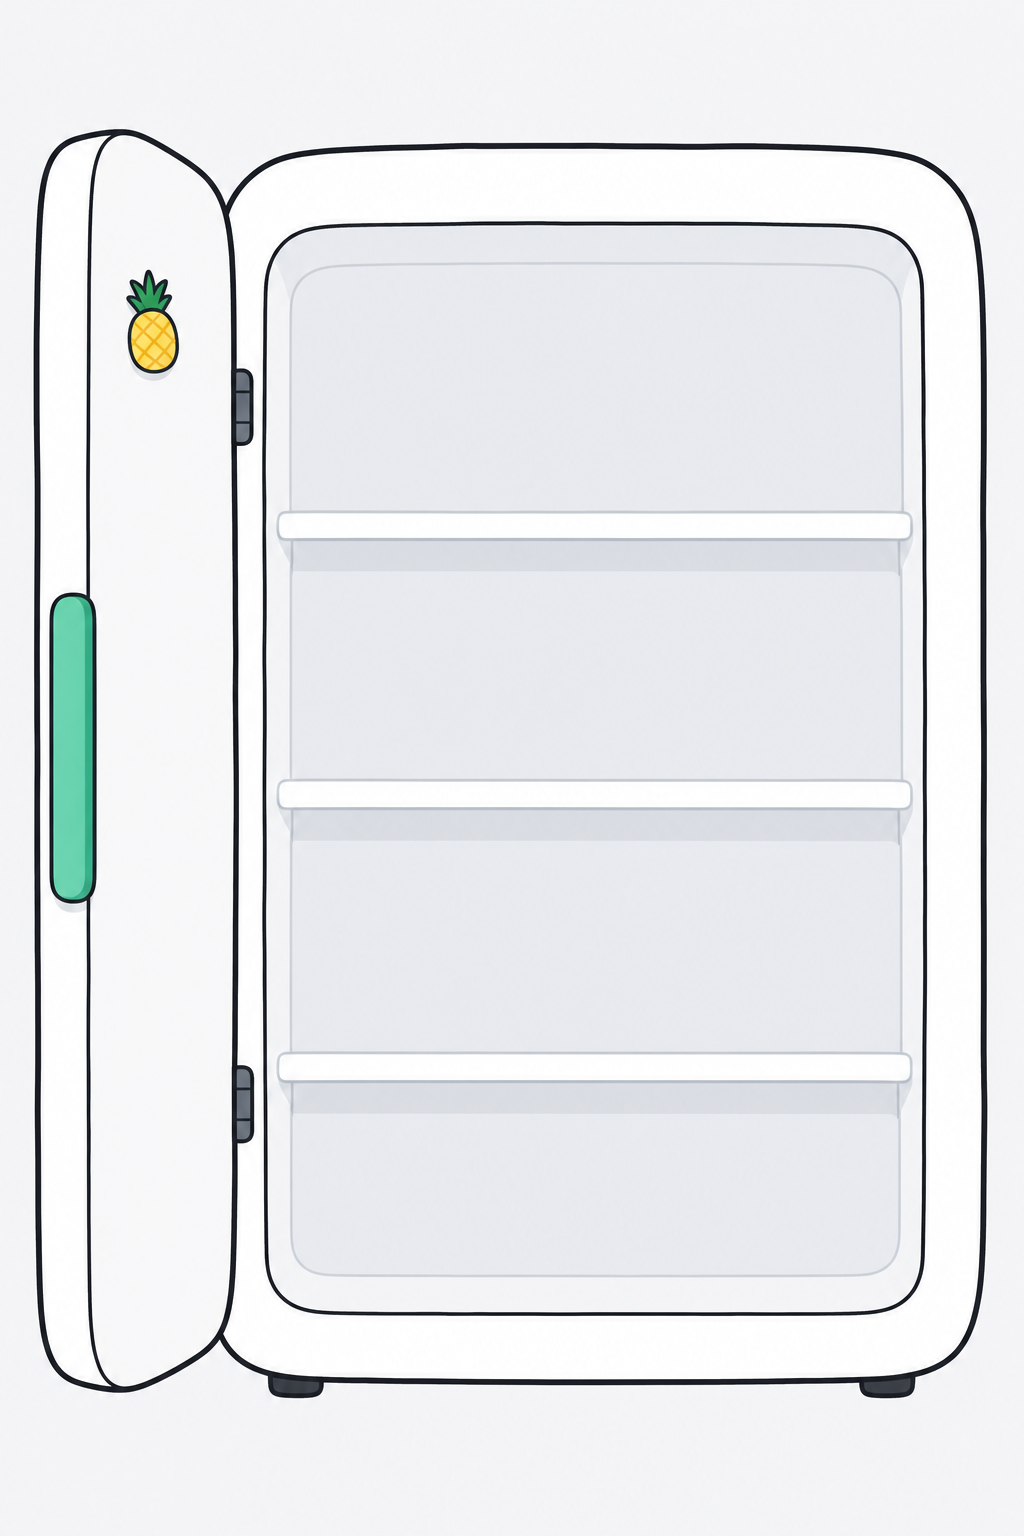
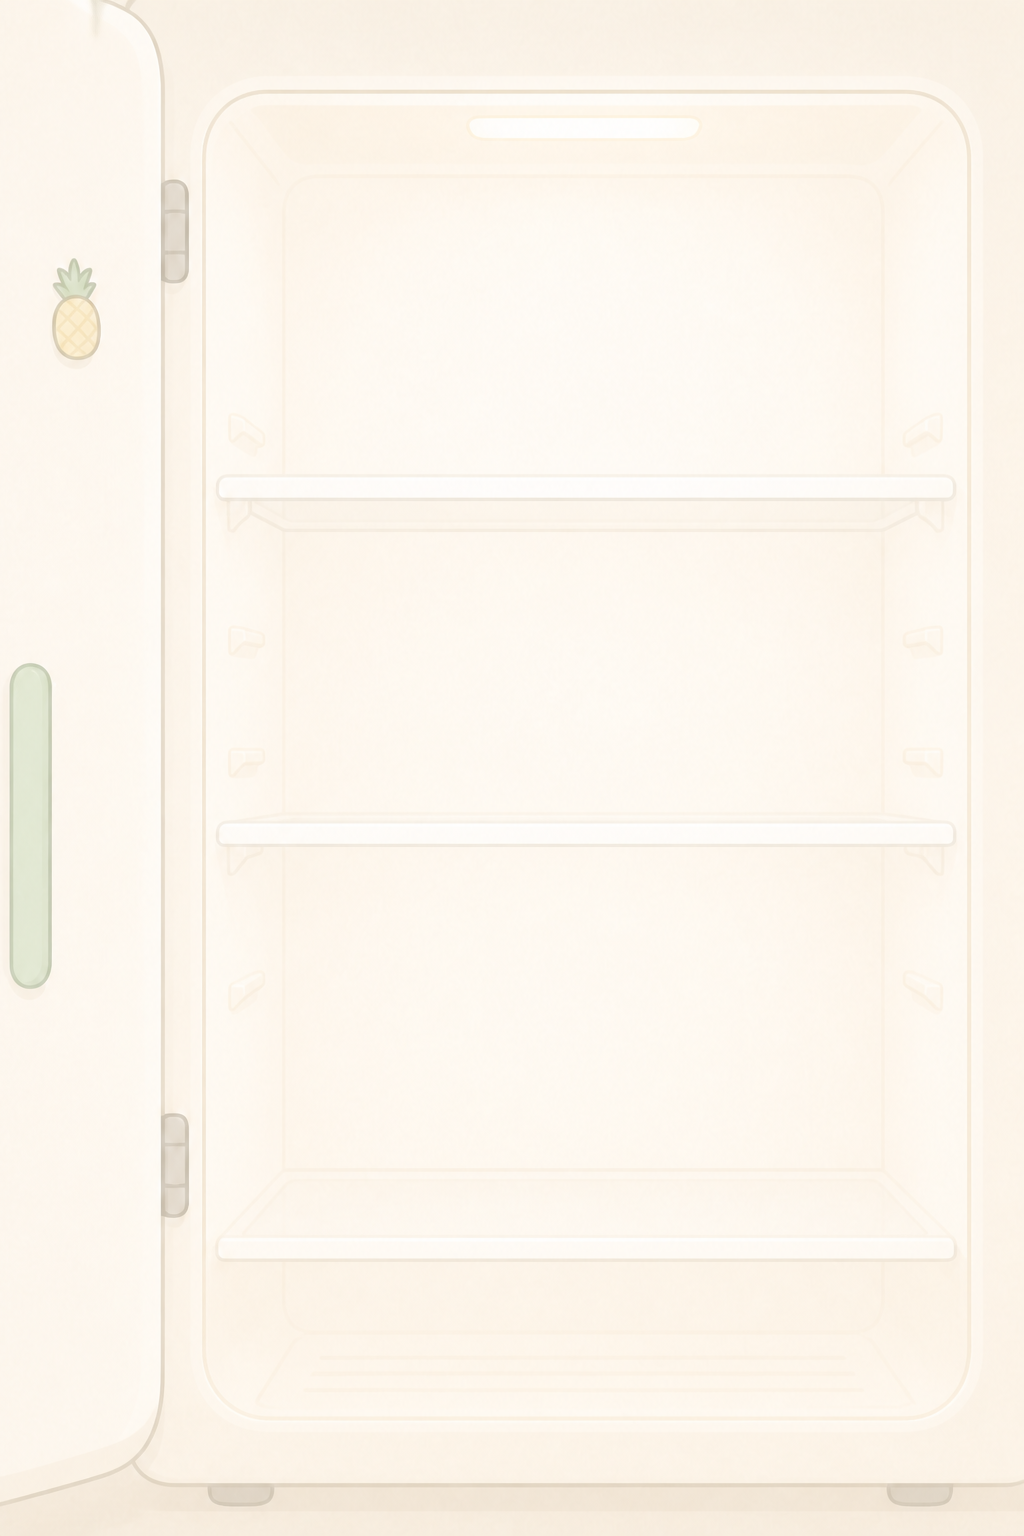
feat(mobile): finalize Jango visual assets

Changed region(s): [[0.0, 0.0625, 1.0, 1.0], [0.0938, 0.0, 0.1562, 0.0312]]

diff --git a/apps/mobile/src/features/inventory/inventory-screen-styles.ts b/apps/mobile/src/features/inventory/inventory-screen-styles.ts
@@ -310,7 +310,7 @@ export const inventoryScreenStyles = StyleSheet.create({
   fridgeSceneVeil: {
     ...StyleSheet.absoluteFillObject,
     backgroundColor: colors.background,
-    opacity: 0.24,
+    opacity: 0.16,
   },
   listFlex: {
     flex: 1,

diff --git a/apps/mobile/app/(tabs)/recommendations.tsx b/apps/mobile/app/(tabs)/recommendations.tsx
@@ -1719,7 +1719,7 @@ const styles = StyleSheet.create({
   kitchenSceneVeil: {
     ...StyleSheet.absoluteFillObject,
     backgroundColor: colors.background,
-    opacity: 0.24,
+    opacity: 0.16,
   },
   scrollFlex: {
     flex: 1,

diff --git a/apps/mobile/scripts/sync-branding-from-jango.py b/apps/mobile/scripts/sync-branding-from-jango.py
@@ -1,5 +1,5 @@
 #!/usr/bin/env python3
-"""Derive branding + native iOS icons from Jango character masters.
+"""Derive branding + native iOS/Android icons from Jango character masters.
 
 Sources:
   - assets/characters/jango-icon-crop.png
@@ -36,6 +36,14 @@ APPICON = (
     / "ios/ExpiryMate/Images.xcassets/AppIcon.appiconset/App-Icon-1024x1024@1x.png"
 )
 SPLASH_DIR = ROOT / "ios/ExpiryMate/Images.xcassets/SplashScreenLogo.imageset"
+ANDROID_RES = ROOT / "android/app/src/main/res"
+ANDROID_MONOCHROME_SIZES = {
+    "mdpi": 108,
+    "hdpi": 162,
+    "xhdpi": 216,
+    "xxhdpi": 324,
+    "xxxhdpi": 432,
+}
 
 BG_RGB = (241, 243, 245)  # semanticColors.background
 
@@ -105,14 +113,26 @@ def to_opaque_rgb(im: Image.Image, bg: tuple[int, int, int] = BG_RGB) -> Image.I
     return base
 
 
+def to_white_alpha_glyph(im: Image.Image) -> Image.Image:
+    """Reuse an approved foreground alpha mask as a pure-white themed glyph."""
+    glyph = Image.new("RGBA", im.size, (255, 255, 255, 255))
+    glyph.putalpha(im.getchannel("A"))
+    return glyph
+
+
 def simplified_silhouette(
-    character: Image.Image, master: int = 192, final: int = 96
+    character: Image.Image,
+    master: int = 192,
+    final: int = 96,
+    upper_crop_ratio: float = 0.70,
 ) -> tuple[Image.Image, Image.Image]:
-    """White silhouette: simplify edges at high res, save 192 master, downscale to 96."""
+    """White notification glyph cropped to Jango's hat and refrigerator head."""
     bbox = character.getbbox()
     if not bbox:
         raise SystemExit("source has no opaque pixels")
-    cropped = character.crop(bbox)
+    content_height = bbox[3] - bbox[1]
+    crop_bottom = bbox[1] + int(content_height * upper_crop_ratio)
+    cropped = character.crop((bbox[0], bbox[1], bbox[2], crop_bottom))
 
     work_size = master * 2
     work = Image.new("RGBA", (work_size, work_size), (0, 0, 0, 0))
@@ -186,6 +206,23 @@ def main() -> None:
     adaptive = fit_on_canvas(crop, 1024, scale=0.72, background=None)
     adaptive = harden_rgba_alpha(adaptive)
     adaptive.save(BRAND / "adaptive-icon.png", optimize=True)
+
+    # Android 13+ themed icon: exact adaptive silhouette, tinted by the OS.
+    monochrome = to_white_alpha_glyph(adaptive)
+    monochrome.save(BRAND / "monochrome-icon.png", optimize=True)
+
+    if ANDROID_RES.exists():
+        for density, dim in ANDROID_MONOCHROME_SIZES.items():
+            destination = (
+                ANDROID_RES / f"mipmap-{density}" / "ic_launcher_monochrome.webp"
+            )
+            destination.parent.mkdir(parents=True, exist_ok=True)
+            monochrome.resize((dim, dim), Image.Resampling.LANCZOS).save(
+                destination,
+                "WEBP",
+                lossless=True,
+                method=6,
+            )
 
     # Splash: full-body idle
     splash = fit_on_canvas(idle, 1024, scale=0.88, background=None)

diff --git a/docs/JANGO_CHARACTER_STYLE_GUIDE.md b/docs/JANGO_CHARACTER_STYLE_GUIDE.md
@@ -197,28 +197,24 @@ UI 리디자인 당시 초안은 [`archive/MOBILE_REDESIGN_PROMPTS.md`](./archiv
 | `jango-speak.png` | 말하기 (안내·말풍선 UI와 함께). **에셋에 말풍선 금지** |
 | `jango-think.png` | 생각·로딩 |
 | `jango-point.png` | 가리키기 (CTA 유도) |
-| `jango.png` | idle과 동일 마스터 카피 |
 | `jango-icon-crop.png` | **아이콘 전용 포즈** (idle 마스터·윙크+양손 엄지척, 투명 PNG). 양손은 같은 크기·높이로 맞추고 얼굴보다 시각적으로 무겁지 않게 유지. `branding:sync`가 `#F1F3F5` 불투명 `icon.png`로 합성 |
-| `mate-fridge-chef.png` | 레거시 호환용 2D 중립 포즈 (앱 mood·신규 제작 기준으로 직접 쓰지 않음) |
 
 경로: `apps/mobile/assets/characters/`
-
-과거 3D 원본은 `apps/mobile/assets/characters/legacy/`에 보존하며 공식 캐릭터 에셋으로 배포하지 않는다.
 
 ### 소형 UI 전용 에셋
 
 `Mascot size="small"`은 해당 mood의 전신 마스터에서 결정적으로 파생한 상반신 에셋을 자동 선택한다. 소형을 독립적으로 생성·재디자인하지 않는다.
 
 - 파생 소스: `assets/characters/jango-{mood}.png` (1024×1024 RGBA 전신 마스터)
-- 파생 결과: `assets/characters/small/jango-{mood}-small.png` (1024×1024 RGBA)
+- 파생 결과: `assets/characters/runtime/small/jango-{mood}{,@2x,@3x}.png` (72/144/216px RGBA)
 - 고정 크롭: 전신 좌표 `(x: 97, y: 0, width: 830, height: 830)`을 1024×1024로 확대한다. mood별 임의 크롭·재구도 금지
 - 디자인: 얼굴·모자·문·손잡이·경첩·자석·의상·장갑·소품을 전신 마스터와 픽셀 수준으로 동일하게 유지한다.
 - 색: Mint·Charcoal·Body White·Soft Shadow를 전신 마스터에서 그대로 샘플링한다. 소형 전용 채도·명도 보정 금지
 - 선: 전신 마스터의 선화를 크롭과 함께 확대할 뿐 별도 외곽선 추가·굵기 보정 금지
 - 표정·제스처: 해당 mood 전신 마스터의 표정과 포즈를 그대로 유지한다. 소형 전용 재해석 금지
 - 사용 범위: 72px 인라인·배너·시트 전용. `medium`과 `large`는 기존 전신 에셋 유지
-- 재생성: `pnpm --filter @expirymate/mobile mascot:small:build`
-- 자동 검수: `pnpm --filter @expirymate/mobile mascot:audit` — 비율과 함께 outline·mint·alpha·전체 픽셀 불일치가 모두 `0`이어야 한다.
+- 재생성: `pnpm --filter @expirymate/mobile mascot:build` (`mascot:small:build`는 호환 명령)
+- 자동 검수: `pnpm --filter @expirymate/mobile mascot:audit` — 풀바디에서 메모리상으로 직접 파생한 기준과 비교해 outline·mint·alpha·전체 픽셀 불일치가 모두 `0`이어야 한다. 1024px 소형 중간 파일은 저장하지 않는다.
 
 ### 브랜딩 / 스토어 / 알림
 
@@ -228,21 +224,26 @@ UI 리디자인 당시 초안은 [`archive/MOBILE_REDESIGN_PROMPTS.md`](./archiv
 | --- | --- | --- |
 | `assets/branding/icon.png` | `jango-icon-crop` | iOS/Android 앱 아이콘 (불투명 `#F1F3F5`) |
 | `assets/branding/adaptive-icon.png` | `jango-icon-crop` | Android adaptive foreground (투명) |
+| `assets/branding/monochrome-icon.png` | `adaptive-icon` 알파 | Android 13+ 테마 아이콘 (순백 단색·투명) |
 | `assets/branding/splash-icon.png` | `jango-idle` | Expo splash |
 | `assets/branding/notification-icon-192.png` | `jango-idle` 실루엣 마스터 | 알림용 고해상 실루엣 |
 | `assets/branding/notification-icon.png` | 192→96 다운스케일 | Android 알림 아이콘 |
 | `ios/.../AppIcon.appiconset/` | icon 동기화 | native App Icon |
 | `ios/.../SplashScreenLogo.imageset/` | splash 동기화 | native splash |
 
+알림 아이콘은 `jango-idle` 전신 알파 바운드의 상단 70%에서 **요리사 모자와 냉장고 머리 실루엣만** 결정적으로 파생한다. 192px 마스터에서 96px 배포본을 만들며, 흰색과 완전 투명 픽셀만 사용한다. 전체 실루엣은 캔버스 높이의 74~82%, 너비의 60~70%를 채워 24dp에서도 식별 가능해야 한다. 전신·다리·앞치마를 축소해 넣거나 생성형 모델로 윤곽을 다시 그리지 않는다.
+
+Android 테마 아이콘은 승인된 `adaptive-icon.png`의 알파 채널을 그대로 복사한다. RGB는 순백으로 고정하고 OS가 배경화면과 테마에 맞춰 색을 입히도록 하며, 포즈·비율·안전 영역을 별도로 재해석하지 않는다.
+
 스토어 대표 이미지 역시 `jango-idle`의 플랫 2D 언어를 따른다.
 
 | 파일 | 역할 |
 | --- | --- |
-| `assets/store/google-play-feature-graphic.png` | Google Play 공식 2D 피처 그래픽 |
+| `assets/store/google-play-feature-graphic.png` | Google Play 공식 2D 피처 그래픽. 실제 Pretendard와 `jango-idle` 원본을 합성한 1024×500 불투명 PNG |
 | `assets/store/jango-appstore-space-copy-ko-1242x2688.png` | App Store 공식 2D 세로 캠페인 이미지 |
-| `assets/store/legacy/` | 과거 3D·실사 합성본 보관. 배포 금지 |
 
 스토어 이미지에서도 장고만 2D로 두고 배경을 3D 또는 실사로 합성하지 않는다. 배경은 캐릭터와 같은 차콜 외곽선, 제한된 면색, 1단 이하의 그림자를 사용한다.
+Google Play 공식 파일 검수: `pnpm --filter @expirymate/mobile store:sync` / `store:audit`.
 
 `app.json`의 `expo-notifications.icon` / `color`(`#10B981`)가 `notification-icon.png`를 가리킨다.  
 mood / icon-crop를 바꾼 뒤에는 **반드시 `branding:sync`** 후 native/EAS 빌드로 확인.
